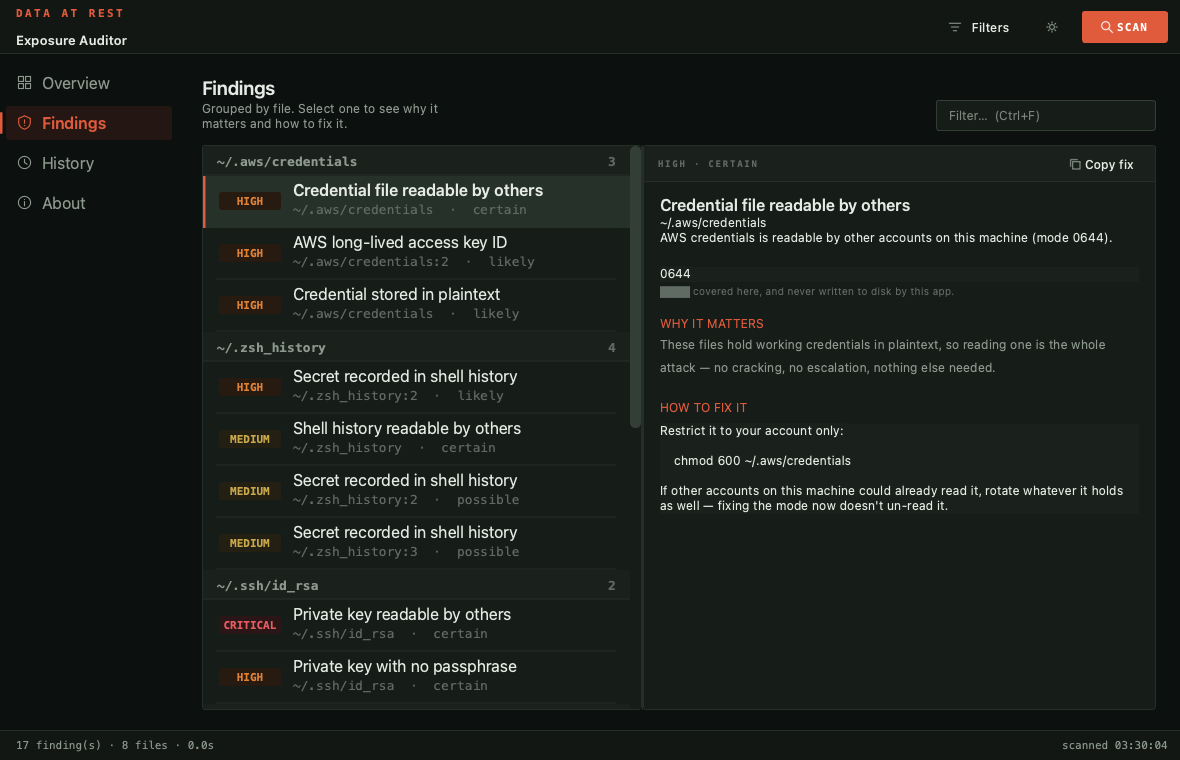
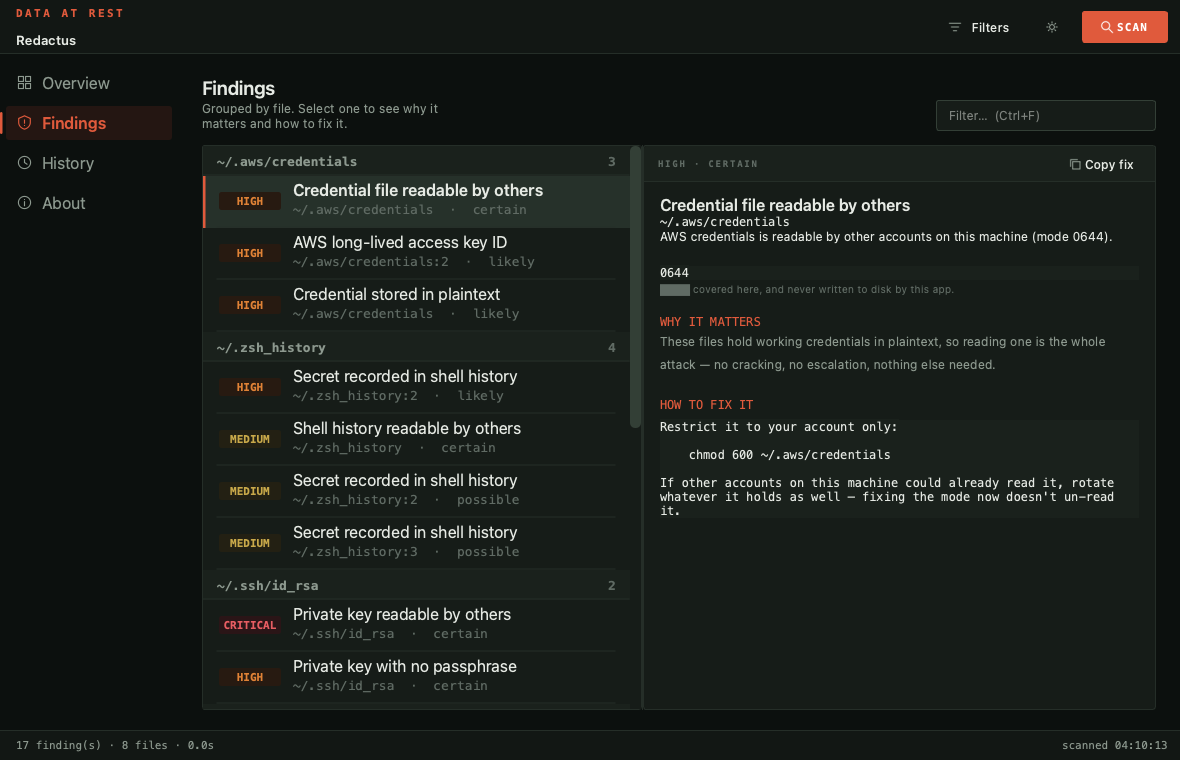
Rename project to Redactus
Package, module paths, CLI entry points, GUI identity, data directory
and docs all updated. The word 'exposure' survives where it's just the
correct English for what the tool finds, not the product name.

Local data moves to ~/Library/Application Support/Redactus (macOS) and
$XDG_DATA_HOME/redactus (Linux), still 0700/0600.

diff --git a/redactus/ui/window.py b/redactus/ui/window.py
@@ -67,7 +67,7 @@ class _Worker(QRunnable):
 class MainWindow(QMainWindow):
     def __init__(self, auto_scan=False):
         super().__init__()
-        self.setWindowTitle("Exposure Auditor")
+        self.setWindowTitle("Redactus")
         self.resize(1180, 760)
         self.setMinimumSize(940, 600)
 
@@ -78,7 +78,7 @@ class MainWindow(QMainWindow):
         self._kpi_prev = {s: 0 for s in SEVERITIES}
         self._current_finding = None
 
-        self._settings = QSettings("Fluid-Prism", "ExposureAuditor")
+        self._settings = QSettings("Fluid-Prism", "Redactus")
         saved = self._settings.value("theme")
         self.theme = saved if saved in PALETTES else self._detect_theme()
         self.c = PALETTES[self.theme]
@@ -161,7 +161,7 @@ class MainWindow(QMainWindow):
         brand.setSpacing(0)
         mark = QLabel("DATA AT REST")
         mark.setObjectName("BrandMark")
-        name = QLabel("Exposure Auditor")
+        name = QLabel("Redactus")
         name.setObjectName("BrandName")
         brand.addWidget(mark)
         brand.addWidget(name)
@@ -858,7 +858,7 @@ class MainWindow(QMainWindow):
             f"<td style='padding:3px 0;color:{c['text_muted']}'>{esc(rule.title)}</td></tr>"
             for rule in sorted(ALL_RULES, key=lambda r: SEVERITIES.index(r.severity)))
         self.about_body.setText(f"""
-<div style='font-size:15px;font-weight:600;color:{c['text']}'>Exposure Auditor</div>
+<div style='font-size:15px;font-weight:600;color:{c['text']}'>Redactus</div>
 <div style='color:{c['text_muted']};margin-top:6px;line-height:150%'>
 Finds credentials sitting unprotected on this disk — private keys other accounts can read,
 keys with no passphrase, plaintext credential stores, and API tokens in files that were never

diff --git a/redactus/__init__.py b/redactus/__init__.py
@@ -1,4 +1,4 @@
-"""exposure — find the credentials sitting unprotected on this machine.
+"""redactus — find the credentials sitting unprotected on this machine.
 
 Answers one question: what's on this disk that would immediately be useful
 to whoever got hold of it. Private keys other accounts can read, keys with
@@ -14,8 +14,8 @@ claims to solve.
 Read-only: it never edits, moves, quarantines or deletes anything it finds.
 Every fix is a command you run yourself, with an explanation of what it does.
 
-Runs as a CLI (`python3 -m exposure.audit`) or a desktop app
-(`python3 -m exposure`).
+Runs as a CLI (`python3 -m redactus.audit`) or a desktop app
+(`python3 -m redactus`).
 """
 import os
 import sys

diff --git a/redactus/gui.py b/redactus/gui.py
@@ -1,7 +1,7 @@
 """gui.py — entry point for the desktop app.
 
-The interface itself lives in `exposure/ui/`. This stays as the entry point
-so `python3 -m exposure`, `python3 -m exposure.gui` and the packaged
+The interface itself lives in `redactus/ui/`. This stays as the entry point
+so `python3 -m redactus`, `python3 -m redactus.gui` and the packaged
 gui-script all keep working.
 """
 import sys
@@ -15,7 +15,7 @@ from .ui import MainWindow
 def main():
     warn_if_root()
     app = QApplication(sys.argv)
-    app.setApplicationName("Exposure Auditor")
+    app.setApplicationName("Redactus")
     app.setOrganizationName("Fluid-Prism")
     window = MainWindow()
     window.show()

diff --git a/redactus/store.py b/redactus/store.py
@@ -29,9 +29,9 @@ import time
 
 def _data_dir():
     if platform.system() == "Darwin":
-        return os.path.join(os.path.expanduser("~/Library/Application Support"), "ExposureAuditor")
+        return os.path.join(os.path.expanduser("~/Library/Application Support"), "Redactus")
     base = os.environ.get("XDG_DATA_HOME") or os.path.expanduser("~/.local/share")
-    return os.path.join(base, "exposure-auditor")
+    return os.path.join(base, "redactus")
 
 
 DATA_DIR = _data_dir()

diff --git a/redactus/ui/__init__.py b/redactus/ui/__init__.py
@@ -2,7 +2,7 @@
 
 Nothing in here decides what counts as a finding, and nothing outside here
 knows Qt exists. The CLI and the GUI both sit on the same scanner, rules and
-store, which is what keeps `python3 -m exposure.audit` honest: it isn't a
+store, which is what keeps `python3 -m redactus.audit` honest: it isn't a
 cut-down version of the app, it's the same engine with a different surface.
 """
 from .window import MainWindow

diff --git a/redactus/selftest.py b/redactus/selftest.py
@@ -1,7 +1,7 @@
 """selftest.py — offline checks. No network, no reliance on this machine's
 actual contents; every fixture is synthetic and built at runtime.
 
-    python3 -m exposure.selftest
+    python3 -m redactus.selftest
 
 The detectors are pure functions over FileFacts, so almost all of this runs
 without touching a disk. The exceptions are the scanner tests, which build a

diff --git a/redactus/audit.py b/redactus/audit.py
@@ -1,4 +1,4 @@
-"""audit.py — headless CLI. `python3 -m exposure.audit`.
+"""audit.py — headless CLI. `python3 -m redactus.audit`.
 
 Scans, prints findings worst-first, records the run to local history.
 `--json` emits the same data for scripting; masked evidence is included

diff --git a/redactus/__main__.py b/redactus/__main__.py
@@ -1,4 +1,4 @@
-"""Launch the desktop app with `python3 -m exposure`."""
+"""Launch the desktop app with `python3 -m redactus`."""
 from .gui import main
 
 if __name__ == "__main__":
